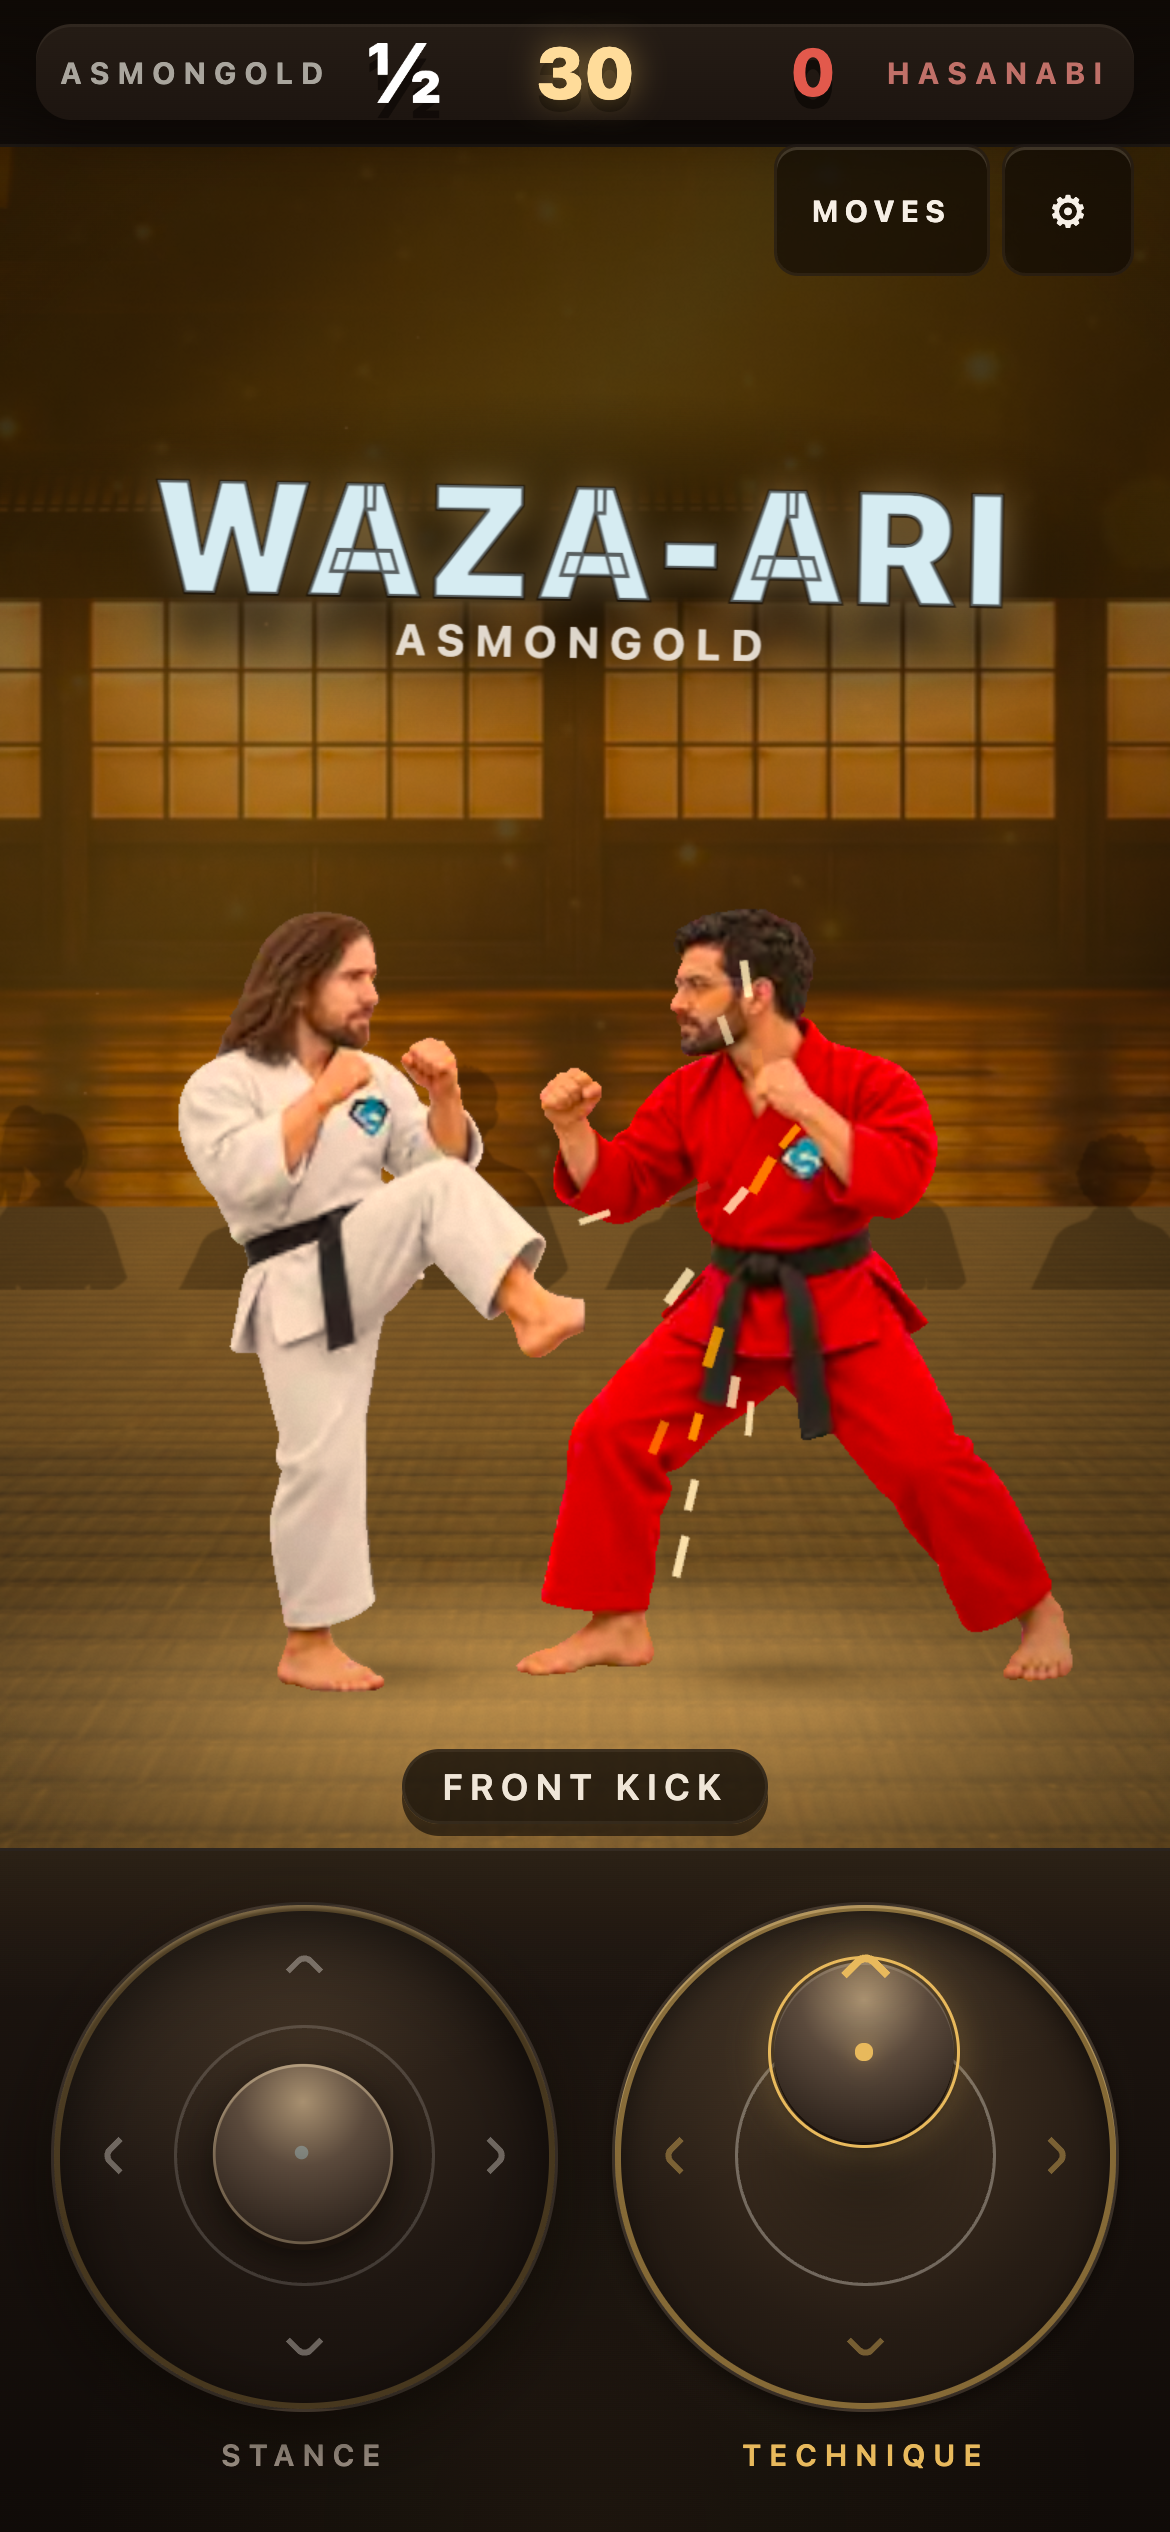
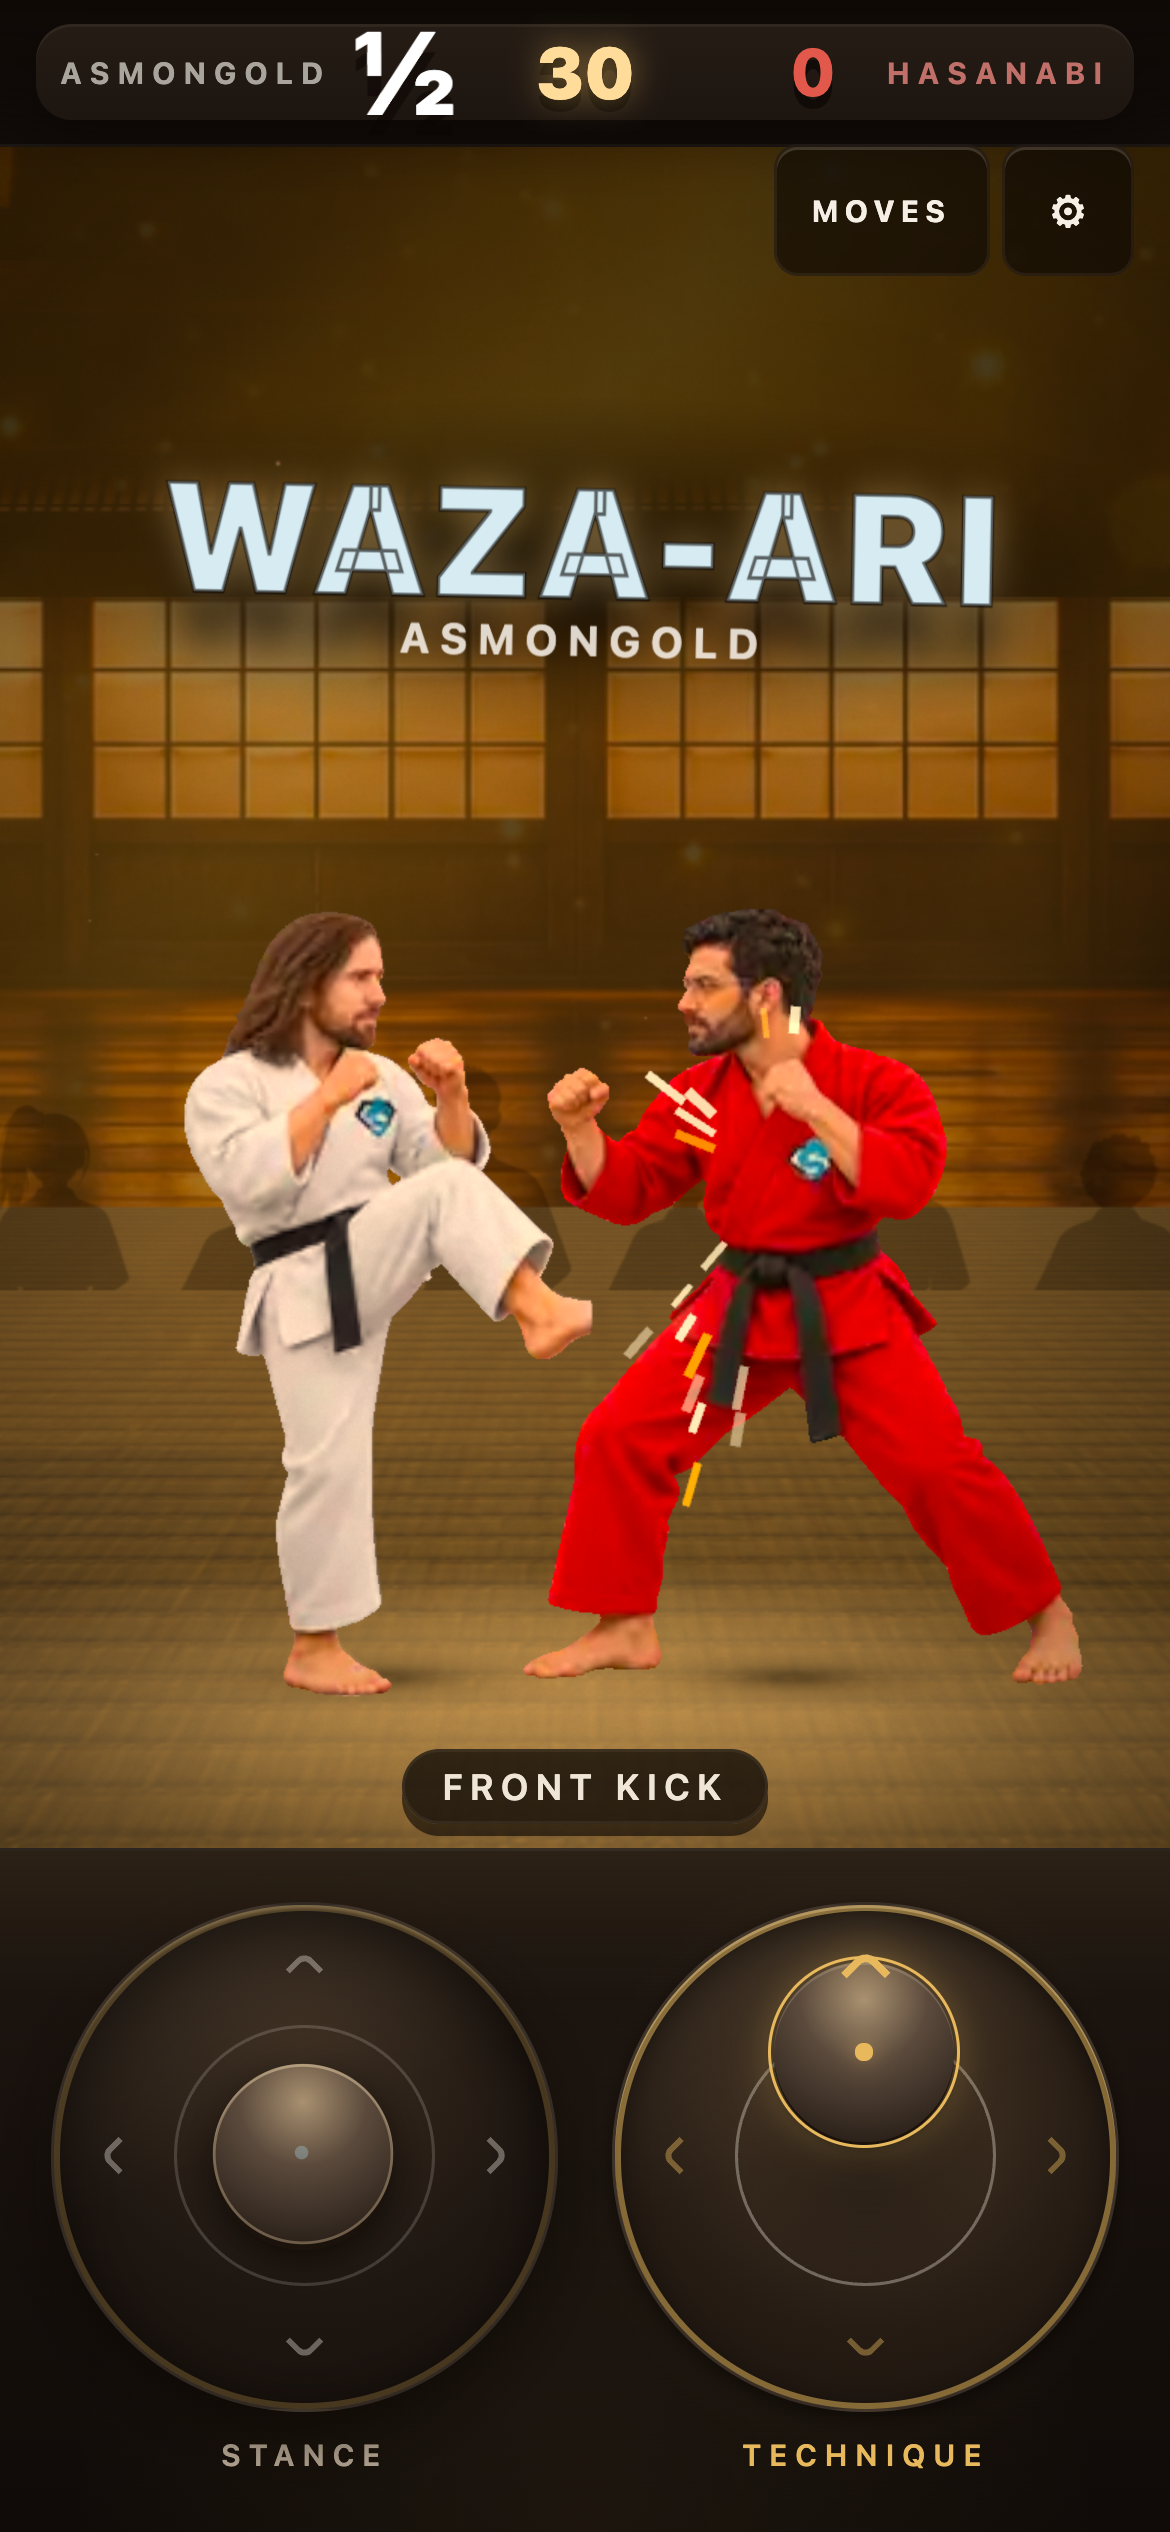
fix(ui): vision-review round 4 — contact shadows, tap targets, card hierarchy
Reviewed by openai/gpt-5.2. All five items verified in source and by crop first.

- contact shadows: the claim was "essentially no shadow under the soles" and a
  crop of the mat confirmed it — a shadow existed, but at 0.44 alpha with a soft
  22%-radius falloff it read as a smudge BEHIND the feet, and the gi met the
  tatami with no dark line between them. Opacity 0.66 and a hard core out to 10%
  radius: contact is read from the small dark spot under the sole, and the wide
  soft spread is the cast shadow. Two different things, two different strengths.
- tap targets: settings checkboxes were a 22px target on the one screen where a
  thumb is already in use. The box keeps its optical size; a pseudo-element
  extends the hit area to the 44px minimum. A 44px white square in a settings
  list looks like a bug, so the box itself was not enlarged.
- pre-fight card: at the result card's vertical rhythm the round name spent the
  top third of a phone and pushed both fighters into the mat, on a screen whose
  job is to get the player into the fight. Added data-phase to scope a tighter
  rhythm and a smaller headline to the doorway card only — the result is the
  payoff and keeps the full size.
- contrast: coach legend and STANCE/TECHNIQUE labels off the ghost ramp, boot
  percent up a size and to full text colour. The coach mark is the one piece of
  text on the pad a player cannot decode from context.
- **regression caught by screenshot, not by tests**: round 3's floating MOVES
[…]

diff --git a/apps/game/src/styles.css b/apps/game/src/styles.css
@@ -462,9 +462,12 @@ body {
   margin: 0 0 var(--space-2);
   align-self: stretch;
   text-align: center;
-  color: var(--text-muted);
+  /* The one number on this screen that is actually true and actually moving.
+     Lifted off --text-muted: at that value a 2-xs mono line in the lower
+     third of a phone screen was easy to miss entirely. */
+  color: var(--text);
   font-family: var(--font-mono);
-  font-size: var(--text-2xs);
+  font-size: var(--text-xs);
   letter-spacing: var(--track-normal);
   line-height: var(--leading-tight);
 }
@@ -899,7 +902,9 @@ body.show-perf #backend {
   font-weight: var(--weight-semibold);
   letter-spacing: var(--track-label);
   text-transform: uppercase;
-  color: var(--text-ghost);
+  /* Was --text-ghost. These two words are the only thing naming the control
+     the player is about to use with the hand already on it. */
+  color: var(--text-muted);
   transition: color var(--dur-fast) var(--ease-out);
 }
 
@@ -1270,10 +1275,13 @@ body:has(.result.show) .stick-zone {
   gap: 1px var(--space-2);
   justify-content: center;
   font-family: var(--font-mono);
-  font-size: 0.56rem;
+  font-size: 0.58rem;
   font-style: normal;
   line-height: 1.4;
-  color: var(--text-muted);
+  /* Was --text-muted. The coach mark is the one piece of text on the pad that
+     a player with no prior knowledge cannot decode from context, so it does not
+     get ghosted like a resting detent does. */
+  color: var(--text);
 }
 
 .coach-legend i {
@@ -1342,6 +1350,14 @@ body.reduced-motion .coach-mark {
 
   body.no-backdrop-filter .hud-actions .icon-btn {
     background: rgb(12 8 4 / 0.9);
+  }
+
+  /* Collapsing the header row put these two on top of the dojo, which is
+     correct during a bout and wrong on a card: they landed across the round
+     name. Nothing behind a card is actionable anyway, so they stand down for
+     as long as one is up. */
+  body:has(.result.show) .hud-actions {
+    display: none;
   }
 }
 
@@ -1479,10 +1495,25 @@ input:focus-visible,
 }
 
 .setting-row input[type="checkbox"] {
+  /* The box keeps its 22px optical size — a 44px white square in a settings
+     list looks like a bug — but the hit area is the full 44px minimum, via a
+     pseudo-element that extends past the box in every direction. Without this
+     the control was a 22px target on the one screen where a player is already
+     using a thumb. */
+  position: relative;
   width: 22px;
   height: 22px;
   flex: 0 0 auto;
   accent-color: var(--check);
+}
+
+.setting-row input[type="checkbox"]::after {
+  content: '';
+  position: absolute;
+  inset: 50%;
+  inline-size: 44px;
+  block-size: 44px;
+  transform: translate(-50%, -50%);
 }
 
 .setting-hint {
@@ -2014,6 +2045,29 @@ body.high-contrast .result-score {
   color: var(--text-muted);
 }
 
+/* The pre-fight round card is a doorway, not a payoff. At the result card's
+   rhythm it spent the top third of a phone on typography and pushed both
+   fighters down into the mat, on a screen whose entire job is to get the
+   player into the fight. Tighter rhythm, smaller headline, same ink. */
+.result[data-phase='prefight'] {
+  gap: var(--space-2);
+  padding-block-start: var(--space-2);
+}
+
+.result[data-phase='prefight'] .result-headline {
+  font-size: clamp(1.7rem, 8vw, 3.2rem);
+}
+
+.result[data-phase='prefight'] .result-score,
+.result[data-phase='prefight'] .result-detail,
+.result[data-phase='prefight'] .result-title {
+  padding-block: var(--space-1);
+}
+
+.result[data-phase='prefight'] .result-detail {
+  font-size: var(--text-xs);
+}
+
 .result-rematch {
   /* `auto`, not a fixed space: the result card is three bands — identity at the
      top, the fighters across the middle, the call to action on the mat below
@@ -2022,8 +2076,7 @@ body.high-contrast .result-score {
      across both fighters' faces, which is the one thing this screen must not
      do. */
   margin-top: auto;
-  min-width: 12rem;
-  min-height: 52px;
+  min-width: 12rem;  min-height: 52px;
   padding: 0 var(--space-5);
   border: 1px solid var(--button-edge);
   border-radius: var(--radius-pill);

diff --git a/apps/game/src/stage.ts b/apps/game/src/stage.ts
@@ -102,12 +102,18 @@ interface Mote {
 /** How far the contact shadow reaches across the mat, and how deep it smears. */
 const SHADOW_SPAN = 0.98;
 const SHADOW_DEPTH = 0.66;
-/** Peak alpha right under the feet. The falloff lives in the texture, not here. */
-const SHADOW_OPACITY = 0.44;
+/**
+ * Peak alpha right under the feet. 0.44 read as a smudge BEHIND the soles
+ * rather than as contact — a crop of the mat showed the gi and the tatami
+ * meeting with no dark line between them, and both fighters looked pasted on.
+ * The feet need a definite dark core, not a soft average.
+ */
+const SHADOW_OPACITY = 0.66;
 /**
  * The key sits up and at +X+Z, so a body throws its shadow the other way. A
  * perfectly centred blob is the single clearest tell that nobody is standing
- * under a lamp.
+ * under a lamp. The offsets are small on purpose: a shadow that has visibly
+ * slid off the foot is worse than one that is merely soft.
  */
 const SHADOW_OFFSET_X = -0.06;
 const SHADOW_OFFSET_Z = -0.05;
@@ -696,10 +702,17 @@ function contactShadow(): CanvasTexture {
   const g = canvas.getContext('2d');
   if (g !== null) {
     const gradient = g.createRadialGradient(size / 2, size / 2, 0, size / 2, size / 2, size / 2);
+    // A hard dark core, then a fast falloff. The first pass held 0.86 alpha all
+    // the way out to 22% radius and read as one soft smudge, so the eye had
+    // nothing to grab at and the feet looked pasted onto the mat. Contact is
+    // read from the small dark spot directly under the sole, and the wide soft
+    // spread around it is the cast shadow — two different things, two different
+    // strengths.
     gradient.addColorStop(0, 'rgba(0,0,0,1)');
-    gradient.addColorStop(0.22, 'rgba(0,0,0,0.86)');
-    gradient.addColorStop(0.45, 'rgba(0,0,0,0.42)');
-    gradient.addColorStop(0.7, 'rgba(0,0,0,0.13)');
+    gradient.addColorStop(0.1, 'rgba(0,0,0,1)');
+    gradient.addColorStop(0.24, 'rgba(0,0,0,0.72)');
+    gradient.addColorStop(0.42, 'rgba(0,0,0,0.4)');
+    gradient.addColorStop(0.68, 'rgba(0,0,0,0.14)');
     gradient.addColorStop(1, 'rgba(0,0,0,0)');
     g.fillStyle = gradient;
     g.fillRect(0, 0, size, size);

diff --git a/apps/game/src/hud.ts b/apps/game/src/hud.ts
@@ -148,6 +148,13 @@ export class Hud {
     action?: string;
     /** A small line above the headline, e.g. the round. */
     kicker?: string;
+    /**
+     * Pre-fight round card or post-fight result. They share a class but want
+     * opposite vertical rhythms: the result is the payoff and can own the
+     * frame, while the round card is a doorway the player is waiting to walk
+     * through, and at full size it pushed the fighters off the screen.
+     */
+    phase?: 'prefight' | 'result';
   }): void {
     if (this.result === null) {
       const stage = document.getElementById('stage');
@@ -178,6 +185,7 @@ export class Hud {
     button.addEventListener('click', opts.rematch, { once: true });
     this.resultButton = button;
     this.result.dataset['tone'] = opts.tone;
+    this.result.dataset['phase'] = opts.phase ?? 'result';
     this.result.replaceChildren(kicker, headline, score, detail, button);
     this.banner.classList.remove('show');
     this.result.classList.add('show');

diff --git a/apps/game/src/main.ts b/apps/game/src/main.ts
@@ -450,6 +450,7 @@ async function boot(screen: BootScreen): Promise<void> {
       kicker: `Round ${run.round + 1} of ${TOURNAMENT.length}`,
       headline: round.name,
       tone: 'full',
+      phase: 'prefight',
       score: `vs ${state.fighters[1].spec.name}`,
       detail: STYLE[round.archetype] ?? '',
       action: 'FIGHT',
